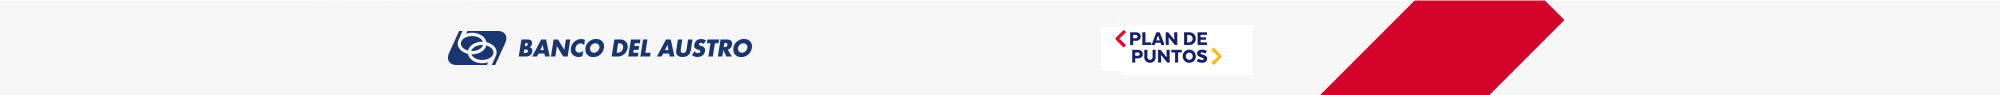
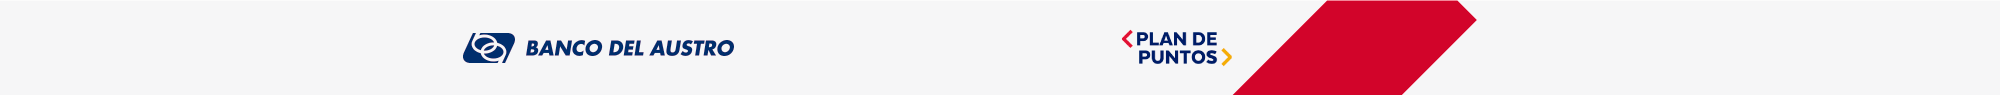
ajuste header

Changed region(s): [[0.558, 0.0, 0.806, 1.0], [0.217, 0.3158, 0.403, 0.6947]]

diff --git a/index.html b/index.html
@@ -38,7 +38,7 @@
 		<!-- HEADER -->
 		<div class="pre-header ">
 			<div class="content-push">
-				<p style="margin-right: 90px"><a href="#" style="color: #fff">SALIR</a></p>
+				<p style="margin-right: 175px"><a href="#" style="color: #fff">SALIR</a></p>
 			</div>
 		</div>
 		<div class="header-wrapper style-15">
@@ -106,7 +106,7 @@
 						<div class="navigation-banner-wrapper light-text align-3" style="background-image:url(img/bg/bg-1.png);background-position: center center;">
 							<div class="navigation-banner-content content-push">
 								<div class="cell-view">
-									<img src="img/bg/logo-plan.png" alt="" width="92">
+									<img src="img/bg/logo-plan.png" alt="" width="110">
 									<h2 class="subtitle">El ahorro es uno de los <br>principales medios para <br> alcanzar sus metas</h2>
 									<div class="description"><a href="index.html" class="button style-10" style="padding: ;">Ver Catálogo</a></div>
 								</div>
@@ -118,7 +118,7 @@
 						<div class="navigation-banner-wrapper light-text align-3" style="background-image:url(img/bg/bg-1.png);background-position: center center;">
 							<div class="navigation-banner-content content-push">
 								<div class="cell-view">
-									<img src="img/bg/logo-plan.png" alt=""  width="92">
+									<img src="img/bg/logo-plan.png" alt=""  width="110">
 									<h2 class="subtitle" >Acumule puntos por todas<br>las transacciones que realice<br>con su tarjeta</h2>
 									<div class="description"><a href="index.html" class="button style-10">Ver Catálogo</a></div>
 								</div>
@@ -130,7 +130,7 @@
 						<div class="navigation-banner-wrapper light-text align-3" style="background-image:url(img/bg/bg-1.png);background-position: center center;">
 							<div class="navigation-banner-content content-push">
 								<div class="cell-view">
-									<img src="img/bg/logo-plan.png" alt=""  width="92">
+									<img src="img/bg/logo-plan.png" alt=""  width="110">
 									<h2 class="subtitle">El ahorro es uno de <br> los principales medios para <br> alcanzar sus metas</h2>
 									<div class="description"><a href="index.html" class="button style-10">Ver Catálogo</a></div>
 								</div>

diff --git a/css/style.css b/css/style.css
@@ -4450,7 +4450,7 @@ body:not(.mobile) #content-block .sidebar-navigation .entry:hover .fa {
 	}
 	#content-block .navigation-banner-content .cell-view img {
 /*		height: 45px;*/
-		width: auto;
+		width: 110px;
 	}
 	#content-block .navigation-banner-image {
 		opacity: 0.2;
